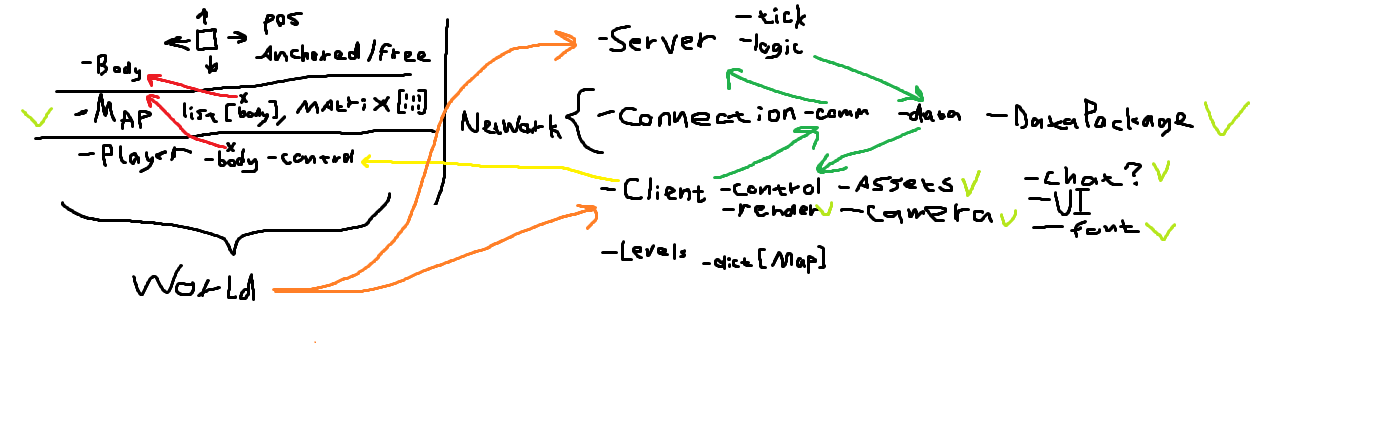
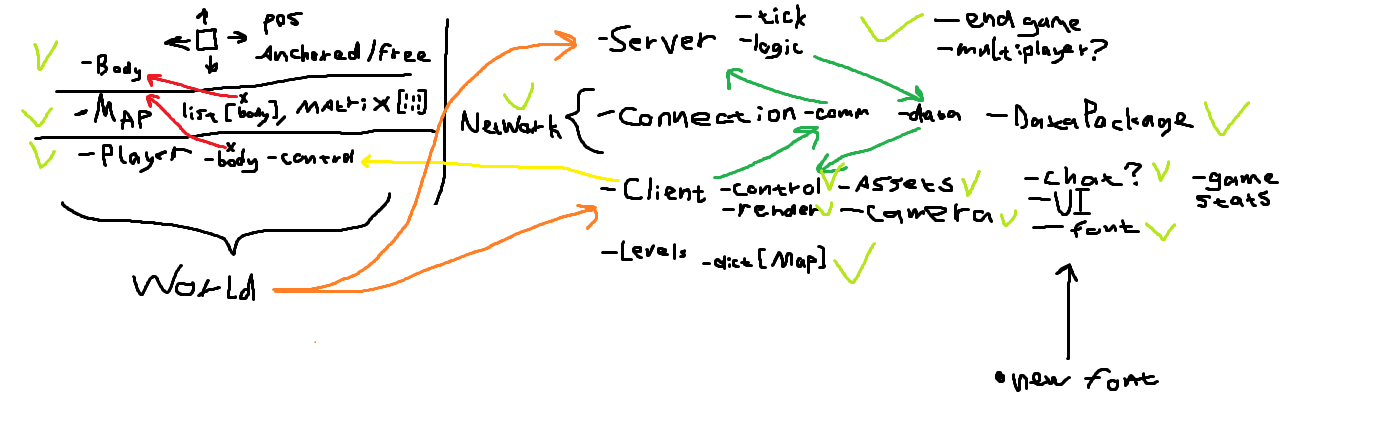
More game logic, information panel, statistics

diff --git a/core/src/main/java/fal/game/Client.java b/core/src/main/java/fal/game/Client.java
@@ -50,6 +50,10 @@ public class Client {
         public boolean chat_line_open = false;
         public String chat_line_buffer = "";
         public String skin_texture = "player_welp";
+        public int move_counter = -1;
+        public long actual_time = 0;
+        public long start_time = 0;
+        public boolean level_running = false;
         public ClientState(){
         }
     }
@@ -222,7 +226,7 @@ public class Client {
         this.active_connection = connection;
 
         this.MakeOrder("get_map",true);
-
+        this.ResetLevel();
         Debug("Done!");
     }
     public void Leave(){
@@ -397,6 +401,23 @@ public class Client {
             //Debug("There is no messages");
         }
     }
+    public void ResetLevel(){
+        this.state.move_counter = 0;
+        this.state.start_time = System.currentTimeMillis();
+        this.state.actual_time = 0;
+        this.state.level_running = true;
+    }
+    public boolean CheckEndGame(){
+        for(Body body: this.world.bodies.values()){
+            if(body.type.equals("crate") && (body.texture.charAt(body.texture.length()-1)=='d')){
+                return false;
+            }
+        }
+        return true;
+    }
+    public void UpdateTime(){
+        this.state.actual_time = System.currentTimeMillis()-this.state.start_time;
+    }
     public float PosterizeNum(float num){
         return Math.round(num/2)*2;
     }
@@ -460,6 +481,24 @@ public class Client {
                     arg_iterator.remove();
                     break;
                 }
+                case "move_count": {
+                    Debug("- Move count");
+                    if(input_data == null){
+                        if(this.state.level_running) {
+                            this.state.move_counter += 1;
+                        }
+                    }else{
+                        this.state.move_counter = (int)input_data;
+                    }
+                    arg_iterator.remove();
+                    break;
+                }
+                case "reset_level": {
+                    Debug("- Reset level");
+                    this.ResetLevel();
+                    arg_iterator.remove();
+                    break;
+                }
                 case "tps": {
                     this.last_tps = ((input_data == null) ? (short) -1 : (short) input_data);
                     break;
@@ -471,6 +510,9 @@ public class Client {
         this.batch.setProjectionMatrix(this.main_interface.ui_viewport.getCamera().combined);
         this.batch.begin();
         this.main_interface.DrawDebugInformation();
+        if(this.active_connection != null) {
+            this.main_interface.DrawLevelInformation();
+        }
         if(!this.state.chat_hide) {
             this.main_interface.DrawChat();
         }
@@ -479,18 +521,30 @@ public class Client {
         }
         this.batch.end();
     }
+    public void RenderBody(Body body, int offset_x,int offset_y){
+        body.UpdateDrawPos(0.9f);
+        this.batch.draw(body.texture_region,PosterizeNum(body.draw_pos.x*tiles_size.x)+offset_x,PosterizeNum(-body.draw_pos.y*tiles_size.y)+offset_y);
+        if(body.show_name){
+            this.main_interface.DrawTextCentered(body.id,new Vector2(PosterizeNum(body.draw_pos.x*tiles_size.x+tiles_size.x/2)+offset_x,PosterizeNum((-body.draw_pos.y+1)*tiles_size.y+tiles_size.y/2)+offset_y),1f,10,"fonts/consolas.ttf",false);
+        }
+    }
     public void RenderBodies(int offset_x, int offset_y){
         List<String> sorted_bodies = this.world.bodies.keySet().stream()
-            .sorted(Comparator.comparing((String id) -> !this.world.bodies.get(id).solid)
-                .thenComparing(id -> "player".equals(this.world.bodies.get(id).type)))
+            .sorted(Comparator.comparingInt((String id) -> {
+                    Body body = this.world.bodies.get(id);
+                    if ("player".equals(body.type)) {
+                        return 2;
+                    }
+                    if (body.solid) {
+                        return 1;
+                    }
+                    return 0;
+                })
+                .thenComparing(id -> id))
             .collect(Collectors.toList());
-        for(String id: sorted_bodies){
-            Body body = this.world.bodies.get(id);
-            body.UpdateDrawPos(0.9f);
-            this.batch.draw(body.texture_region,PosterizeNum(body.draw_pos.x*tiles_size.x)+offset_x,PosterizeNum(-body.draw_pos.y*tiles_size.y)+offset_y);
-            if(body.show_name){
-                this.main_interface.DrawTextCentered(body.id,new Vector2(PosterizeNum(body.draw_pos.x*tiles_size.x+tiles_size.x/2)+offset_x,PosterizeNum((-body.draw_pos.y+1)*tiles_size.y+tiles_size.y/2)+offset_y),1f,10,"fonts/consolas.ttf",false);
-            }
+
+        for(String body_id : sorted_bodies){
+            this.RenderBody(this.world.bodies.get(body_id), offset_x, offset_y);
         }
     }
     public void RenderMap(int offset_x, int offset_y){
@@ -613,6 +667,13 @@ public class Client {
             this.CheckOrders();
 //            this.CheckData();
             this.CheckMessages();
+        }
+        if(this.state.level_running){
+            if(this.CheckEndGame()){
+                this.state.level_running = false;
+            }else {
+                this.UpdateTime();
+            }
         }
 
         this.Control();

diff --git a/core/src/main/java/fal/game/render/UI.java b/core/src/main/java/fal/game/render/UI.java
@@ -2,6 +2,8 @@ package fal.game.render;
 
 import static fal.game.Client.manager;
 import static fal.game.Client.milli_time;
+import static fal.game.Main.statistic_timer;
+import static fal.game.Main.time_formatter;
 
 import com.badlogic.gdx.graphics.Color;
 import com.badlogic.gdx.graphics.OrthographicCamera;
@@ -12,6 +14,8 @@ import com.badlogic.gdx.math.Vector2;
 import com.badlogic.gdx.utils.viewport.FitViewport;
 import com.badlogic.gdx.utils.viewport.Viewport;
 
+import java.time.Instant;
+import java.time.ZoneId;
 import java.util.HashMap;
 import java.util.Map;
 
@@ -25,6 +29,7 @@ public class UI {
     public Vector2 ui_size = new Vector2(480.0f,250.0f);
     private final Client owner;
     private final StringBuilder debug_info_builder = new StringBuilder();
+    private final StringBuilder level_info_builder = new StringBuilder();
     private final StringBuilder chat_builder = new StringBuilder();
     private final StringBuilder chat_line_builder = new StringBuilder();
     private final GlyphLayout glyphLayout = new GlyphLayout();
@@ -70,6 +75,20 @@ public class UI {
         font.draw(this.owner.batch,text,pos.x,pos.y);
         font.getData().setScale(1.0f);
     }
+    public String FormatTime(long time){
+        long totalSeconds = time / 1000;
+        long hours = totalSeconds / 3600;
+        long minutes = (totalSeconds % 3600) / 60;
+        long seconds = totalSeconds % 60;
+        long ms = time % 1000;
+        if (hours > 0) {
+            return String.format("%d:%02d:%02d:%03d", hours, minutes, seconds, ms);
+        } else if (minutes > 0) {
+            return String.format("%d:%02d:%03d", minutes, seconds, ms);
+        } else {
+            return String.format("%02d:%03d", seconds, ms);
+        }
+    }
     public UI(Client owner){
         this.owner = owner;
 
@@ -90,6 +109,18 @@ public class UI {
             this.chat_line_builder.append(".");
         }
         this.DrawTextBuilder(this.chat_line_builder,new Vector2(-this.ui_size.x/2+1,-this.ui_size.y/2+11),1.0f,9,"fonts/consolas.ttf",this.text_shadow);
+    }
+    public void DrawLevelInformation(){
+        this.level_info_builder.setLength(0);
+        this.level_info_builder
+            .append("Level: ")
+            .append(this.owner.world.map.name)
+            .append("\nTime: ")
+            .append(FormatTime(this.owner.state.actual_time))
+            .append("\nMoves: ")
+            .append(this.owner.state.move_counter);
+
+        this.DrawTextBuilder(this.level_info_builder,new Vector2(0,this.ui_size.y/2-1),1.0f,9,"fonts/consolas.ttf",this.text_shadow);
     }
     public void DrawDebugInformation(){
         this.debug_info_builder.setLength(0);

diff --git a/core/src/main/java/fal/game/Server.java b/core/src/main/java/fal/game/Server.java
@@ -343,6 +343,20 @@ public class Server implements Runnable{
             }
         }
     }
+    public void SetMoveCounter(String player_id, Integer value){
+        this.UpdateBodyPos(player_id);
+        Map data = new HashMap();
+        data.put("move_count",value);
+        Debug("    - "+data.toString());
+        this.connections.get(player_id).SCQueue.offer(new DataPackage("server",data));
+    }
+    public void ResetLevel(String player_id){
+        this.UpdateBodyPos(player_id);
+        Map data = new HashMap();
+        data.put("reset_level",true);
+        Debug("    - "+data.toString());
+        this.connections.get(player_id).SCQueue.offer(new DataPackage("server",data));
+    }
 
     @Override
     public void run() {
@@ -404,6 +418,7 @@ public class Server implements Runnable{
                                 case "move": {
                                     if (this.players.get(player_id).Move((String) input_data)) {
                                         this.UpdateBodyPos(player_id);
+                                        this.SetMoveCounter(player_id,null);
                                     }
                                     break;
                                 }
@@ -472,6 +487,7 @@ public class Server implements Runnable{
             String texture_name = this.players.get(player_id).body.texture;
             DeletePlayer(player_id);
             SpawnPlayer(player_id,texture_name);
+            ResetLevel(player_id);
         }
     }
     public void CompleteOrder(String order_type, String player_id){

diff --git a/core/src/main/java/fal/game/Main.java b/core/src/main/java/fal/game/Main.java
@@ -13,6 +13,7 @@ public class Main extends ApplicationAdapter {
     public Client player_client;
     public CSConnection single_connection;
     public static final DateTimeFormatter time_formatter = DateTimeFormatter.ofPattern("y-M-d.HH-mm-ss");
+    public static final DateTimeFormatter statistic_timer = DateTimeFormatter.ofPattern("y-M-d.HH-mm-ss-SS");
     public static void Debug(String text){
         System.out.println(text);
     }
